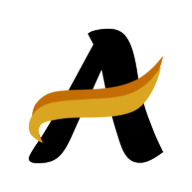
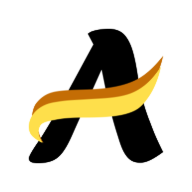
create GET route and display all listings (styled)
- backend:
  - update sampleListings data and its schema
  - create GET /api/listings route to fetch all listings
  - use cors for all requests from localhost:1234

- frontend:
  - update favicon and logo assets
  - create reusable components to render all listings
  - add constants file for api links
  - style components using tailwindcss

Changed region(s): [[0.125, 0.3438, 0.8438, 0.75]]

diff --git a/backend/init/data.js b/backend/init/data.js
@@ -5,7 +5,8 @@ const sampleListings = [
         image: "https://cdn.pixabay.com/photo/2023/08/20/15/56/ai-generated-8202620_1280.jpg",
         price: 1500,
         location: "Juhu Beach Skate Park or local skate parks around Mumbai, Maharashtra",
-        country: "India"
+        country: "India",
+        by: "Aarav Deshmukh"
     },
     {
         title: "Psychology & Emotional Intelligence",
@@ -13,7 +14,8 @@ const sampleListings = [
         image: "https://cdn.pixabay.com/photo/2014/11/24/18/50/mind-544404_1280.png",
         price: 1200,
         location: "South Delhi Counseling Center or online sessions across India",
-        country: "India"
+        country: "India",
+        by: "Dr. Neha Kapoor"
     },
     {
         title: "Basic Neurology for Curious Minds",
@@ -21,7 +23,8 @@ const sampleListings = [
         image: "https://cdn.pixabay.com/photo/2024/07/18/04/41/woman-8903092_1280.jpg",
         price: 1800,
         location: "Indian Institute of Science Campus, Bengaluru or online nationwide",
-        country: "India"
+        country: "India",
+        by: "Dr. Kiran Iyer"
     },
     {
         title: "Indian Bamboo Flute (Bansuri)",
@@ -29,7 +32,8 @@ const sampleListings = [
         image: "https://cdn.pixabay.com/photo/2012/04/26/10/34/flute-41967_1280.png",
         price: 900,
         location: "Banaras Ghats or forested learning space in Almora",
-        country: "India"
+        country: "India",
+        by: "Raghav Sharma"
     },
     {
         title: "Badminton Coaching (All Levels)",
@@ -37,7 +41,8 @@ const sampleListings = [
         image: "https://cdn.pixabay.com/photo/2023/12/09/13/28/ai-generated-8439385_1280.jpg",
         price: 1000,
         location: "Pullela Gopichand Badminton Academy, Hyderabad or community courts",
-        country: "India"
+        country: "India",
+        by: "Sanjana Rao"
     },
     {
         title: "Learn the Art of Acrobatics",
@@ -45,7 +50,8 @@ const sampleListings = [
         image: "https://cdn.pixabay.com/photo/2018/08/23/22/02/acrobat-3626844_1280.jpg",
         price: 2000,
         location: "Ravindra Kalakshetra Grounds, Mysuru or nearby open lawns",
-        country: "India"
+        country: "India",
+        by: "Mehul Rane"
     },
     {
         title: "Gymnastics for Kids and Adults",
@@ -53,7 +59,8 @@ const sampleListings = [
         image: "https://cdn.pixabay.com/photo/2012/04/05/01/47/roman-rings-25773_1280.png",
         price: 1700,
         location: "Shivaji Park Gymnastics Hall, Mumbai",
-        country: "India"
+        country: "India",
+        by: "Kavya Joshi"
     },
     {
         title: "Guitar — Improvisation & Melody",
@@ -61,15 +68,17 @@ const sampleListings = [
         image: "https://cdn.pixabay.com/photo/2017/01/31/14/43/acoustic-guitar-2024669_1280.png",
         price: 1400,
         location: "Himalayan Café Courtyard, Dharamshala",
-        country: "India"
+        country: "India",
+        by: "Ishaan Malhotra"
     },
     {
         title: "Wisdom Literature",
         description: "A guided dive into the Vedanta along with literature from all over the world. Discussions include metaphors and relevance to modern life. Language is kept simple and explanations are philosophical yet grounded.",
         image: "https://cdn.pixabay.com/photo/2022/02/02/10/56/questions-6988157_1280.png",
-        price: 800,
+        price: 200,
         location: "Riverbank Reading Pavilion, Rishikesh, Uttarakhand",
-        country: "India"
+        country: "India",
+        by: "Acharya Prashant"
     },
     {
         title: "Sketching Lessons: From Pencil to Perspective",
@@ -77,7 +86,8 @@ const sampleListings = [
         image: "https://cdn.pixabay.com/photo/2020/05/05/20/04/draw-5134847_1280.png",
         price: 1100,
         location: "Kala Bhavana Lawns, Santiniketan or art cafés in Pune",
-        country: "India"
+        country: "India",
+        by: "Siddharth Patil"
     },
     {
         title: "Music Theory Made Simple",
@@ -85,7 +95,8 @@ const sampleListings = [
         image: "https://cdn.pixabay.com/photo/2023/12/22/16/29/sheet-music-8463988_1280.jpg",
         price: 1300,
         location: "Tea gardens of Munnar or local music schools in Bengaluru",
-        country: "India"
+        country: "India",
+        by: "Priya Nambiar"
     },
     {
         title: "Graphic Design",
@@ -93,7 +104,8 @@ const sampleListings = [
         image: "https://cdn.pixabay.com/photo/2017/10/10/21/47/laptop-2838921_1280.jpg",
         price: 2000,
         location: "Design retreats in Auroville or cafés in Kochi or online",
-        country: "India"
+        country: "India",
+        by: "Ritika Menon"
     },
     {
         title: "Contemporary Dance — Flow and Expression",
@@ -101,7 +113,8 @@ const sampleListings = [
         image: "https://cdn.pixabay.com/photo/2021/02/05/10/34/man-5984098_1280.jpg",
         price: 1600,
         location: "Natural dance deck in the Nilgiris foothills, Coimbatore",
-        country: "India"
+        country: "India",
+        by: "Tarun Sekhar"
     },
     {
         title: "Physics Concepts in Real Life",
@@ -109,7 +122,8 @@ const sampleListings = [
         image: "https://cdn.pixabay.com/photo/2013/11/28/09/50/albert-einstein-219675_1280.jpg",
         price: 1500,
         location: "IIT Campus Courtyard, Kanpur or forest science field center near Mussoorie",
-        country: "India"
+        country: "India",
+        by: "Dr. Rahul Verma"
     },
     {
         title: "Latin Language & Roots — Unlock Ancient Wisdom",
@@ -117,7 +131,8 @@ const sampleListings = [
         image: "https://cdn.pixabay.com/photo/2018/09/14/15/21/pompeii-3677352_1280.jpg",
         price: 1250,
         location: "Quiet stone library by the hills in Panchgani or online across India",
-        country: "India"
+        country: "India",
+        by: "Devika Rao"
     }
 ];
 

diff --git a/frontend/src/components/AllListings.js b/frontend/src/components/AllListings.js
@@ -1,0 +1,38 @@
+import { useState, useEffect } from "react";
+import { ALL_LISTINGS_URL } from "../utils/constants";
+import Listing from "./Listing";
+
+const AllListings = () => {
+    const [listings, setListings] = useState(null);
+
+    useEffect(() => {
+        fetchListings();
+    }, []);
+
+    let fetchListings = async () => {
+        try {
+            let res = await fetch(ALL_LISTINGS_URL);
+            let data = await res.json();
+            setListings(data);
+        } catch (e) {
+            console.log(e);
+        }
+    }
+
+    return !listings ? <div>Fetching listings...</div> : (
+        <div className="mx-auto px-4 py-8 bg-zinc-100 bg-[url('https://cdn.pixabay.com/photo/2023/02/03/05/18/abstract-7764192_1280.jpg')] bg-fixed">
+            <div className="mx-auto py-8 bg-zinc-100">
+                <h1 className="text-3xl font-bold mb-8 px-4">All Listings</h1>
+                <div className="flex flex-wrap justify-center gap-8 px-4">
+                    {
+                        listings.map((listing) => (
+                            <Listing key={listing._id} listing={listing} />
+                        ))
+                    }
+                </div>
+            </div>
+        </div>
+    )
+}
+
+export default AllListings

diff --git a/backend/app.js b/backend/app.js
@@ -1,6 +1,7 @@
 const express = require("express");
 const mongoose = require("mongoose");
 const Listing = require("./models/listing");
+const cors = require("cors");
 
 //---------------- Set up MongoDB database connection ----------------//
 async function main() {
@@ -14,8 +15,22 @@ main()
 //---------------- Set up Express server and API routes ----------------//
 const app = express();
 
+//--------------- Enable CORS for all incoming requests ---------------//
+app.use(cors({
+    origin: "http://localhost:1234" // Parcel development phase
+}));
+
 app.get("/api", (req, res) => {
     res.send("This is the root GET API and it's working :)");
+});
+
+app.get("/api/listings", async (req, res) => {
+    try {
+        const allListings = await Listing.find({});
+        res.json(allListings);
+    } catch (e) {
+        res.status(500).json({ error: "Internal Server Error" });
+    }
 });
 
 app.get("/api/testListing", (req, res) => {

diff --git a/frontend/src/components/Listing.js b/frontend/src/components/Listing.js
@@ -1,0 +1,18 @@
+const Listing = ({ listing }) => {
+    const { title, description, price, location, country, image, by } = listing;
+
+    return (
+        <div className="w-xs max-w-md 2xl:w-md grow rounded shadow-2xl bg-[#fedf4b10] cursor-pointer">
+            <img className="w-full h-64 object-cover bg-zinc-300 rounded-t" src={image} alt={title} />
+            <div className="px-6 py-4">
+                <h2 className="font-bold text-xl mb-2">{title}</h2>
+                <p className="text-gray-900 font-semibold">Price: ₹{price}</p>
+                <p className="text-gray-700">Location: {location}</p>
+                <p className="text-gray-700">Country: {country}</p>
+                <p className="text-gray-700 font-semibold">{by}</p>
+            </div>
+        </div>
+    );
+}
+
+export default Listing;

diff --git a/frontend/src/App.js b/frontend/src/App.js
@@ -1,8 +1,13 @@
+const logo = new URL('./ascend-logo-white.png', import.meta.url);
+import AllListings from "./components/AllListings";
+
 const App = () => {
     return (
         <div>
-            <div>Header</div>
-            <div>Listings</div>
+            <div className="bg-zinc-800 py-4 px-2 sticky top-0">
+                <img src={logo} width={128} />
+            </div>
+            <AllListings />
         </div>
     );
 }

diff --git a/frontend/index.html b/frontend/index.html
@@ -8,7 +8,7 @@
     <link rel="icon" type="image/svg+xml" href="/favicon.svg" />
     <link rel="shortcut icon" href="/favicon.ico" />
     <link rel="apple-touch-icon" sizes="180x180" href="/apple-touch-icon.png" />
-    <meta name="apple-mobile-web-app-title" content="MyWebSite" />
+    <meta name="apple-mobile-web-app-title" content="Ascend" />
     <link rel="manifest" href="/site.webmanifest" />
     <title>Ascend</title>
 </head>

diff --git a/backend/models/listing.js b/backend/models/listing.js
@@ -13,7 +13,11 @@ let listingSchema = new mongoose.Schema({
     },
     price: Number,
     location: String,
-    country: String
+    country: String,
+    by: {
+        type: String,
+        required: true
+    }
 });
 
 const Listing = mongoose.model("Listing", listingSchema);

diff --git a/frontend/src/utils/constants.js b/frontend/src/utils/constants.js
@@ -1,0 +1,1 @@
+export const ALL_LISTINGS_URL = "http://localhost:8080/api/listings";
